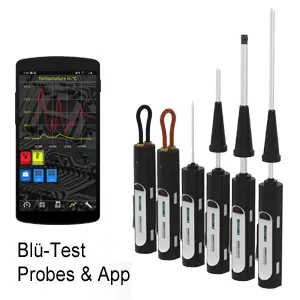
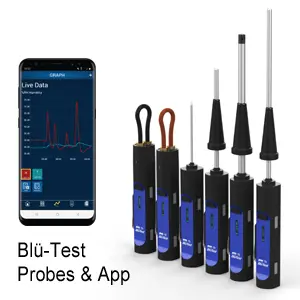
fix: team testing feedback - categories, images, and UX improvements
Fixes 8 issues from team testing session:

Frontend Changes:
- Fix binary toggle green indicator to show for all selections (not just positive)
- Remove redundant 'Selected:' label from dropdown selectors
- Replace Test Instruments category image with correct static file

WordPress Database Changes (via WP-CLI):
- Add missing Decora Style product (ID 137459 to category 759)
- Remove extra Button Sensor product (ID 410146 from category 758)
- Update Delta Style category images (categories 324 & 334 to image 58982)
- Update Strap category image (category 743 to image 56282)
- Set NO2 product featured image (product 138076 to image 56421)

Note: .env changes (REVALIDATE_SECRET) not committed per security best practices.

Changed region(s): [[0.42, 0.03, 0.96, 0.99], [0.03, 0.18, 0.36, 0.78]]

diff --git a/web/src/components/products/variation-selectors/DropdownSelector.tsx b/web/src/components/products/variation-selectors/DropdownSelector.tsx
@@ -2,7 +2,6 @@
 
 import { useTranslations } from 'next-intl';
 import { ChevronDownIcon } from '@/lib/icons';
-import { getShortLabel } from '@/lib/attributeDetection';
 
 interface DropdownSelectorProps {
   label: string;
@@ -66,15 +65,6 @@ export default function DropdownSelector({
           />
         </div>
       </div>
-
-      {/* Show shortened label for long selections */}
-      {value && value.length > 50 && (
-        <div className="mt-2 rounded border border-neutral-200 bg-neutral-50 p-2">
-          <span className="text-xs font-semibold text-neutral-700">Selected:</span>
-          <p className="mt-1 text-sm text-neutral-900">{getShortLabel(value)}</p>
-          <p className="mt-1 text-xs text-neutral-700">{value}</p>
-        </div>
-      )}
     </div>
   );
 }

diff --git a/web/src/components/products/variation-selectors/BinaryToggleSelector.tsx b/web/src/components/products/variation-selectors/BinaryToggleSelector.tsx
@@ -74,7 +74,7 @@ export default function BinaryToggleSelector({
         {/* Status indicator */}
         <div className="flex items-center gap-2">
           <div
-            className={`h-2 w-2 rounded-full transition-colors ${isPositiveSelected ? 'bg-green-500' : 'bg-neutral-400'} `}
+            className={`h-2 w-2 rounded-full transition-colors ${value ? 'bg-green-500' : 'bg-neutral-400'} `}
           />
           <span className="text-xs font-medium text-neutral-700">{value || 'Not selected'}</span>
         </div>